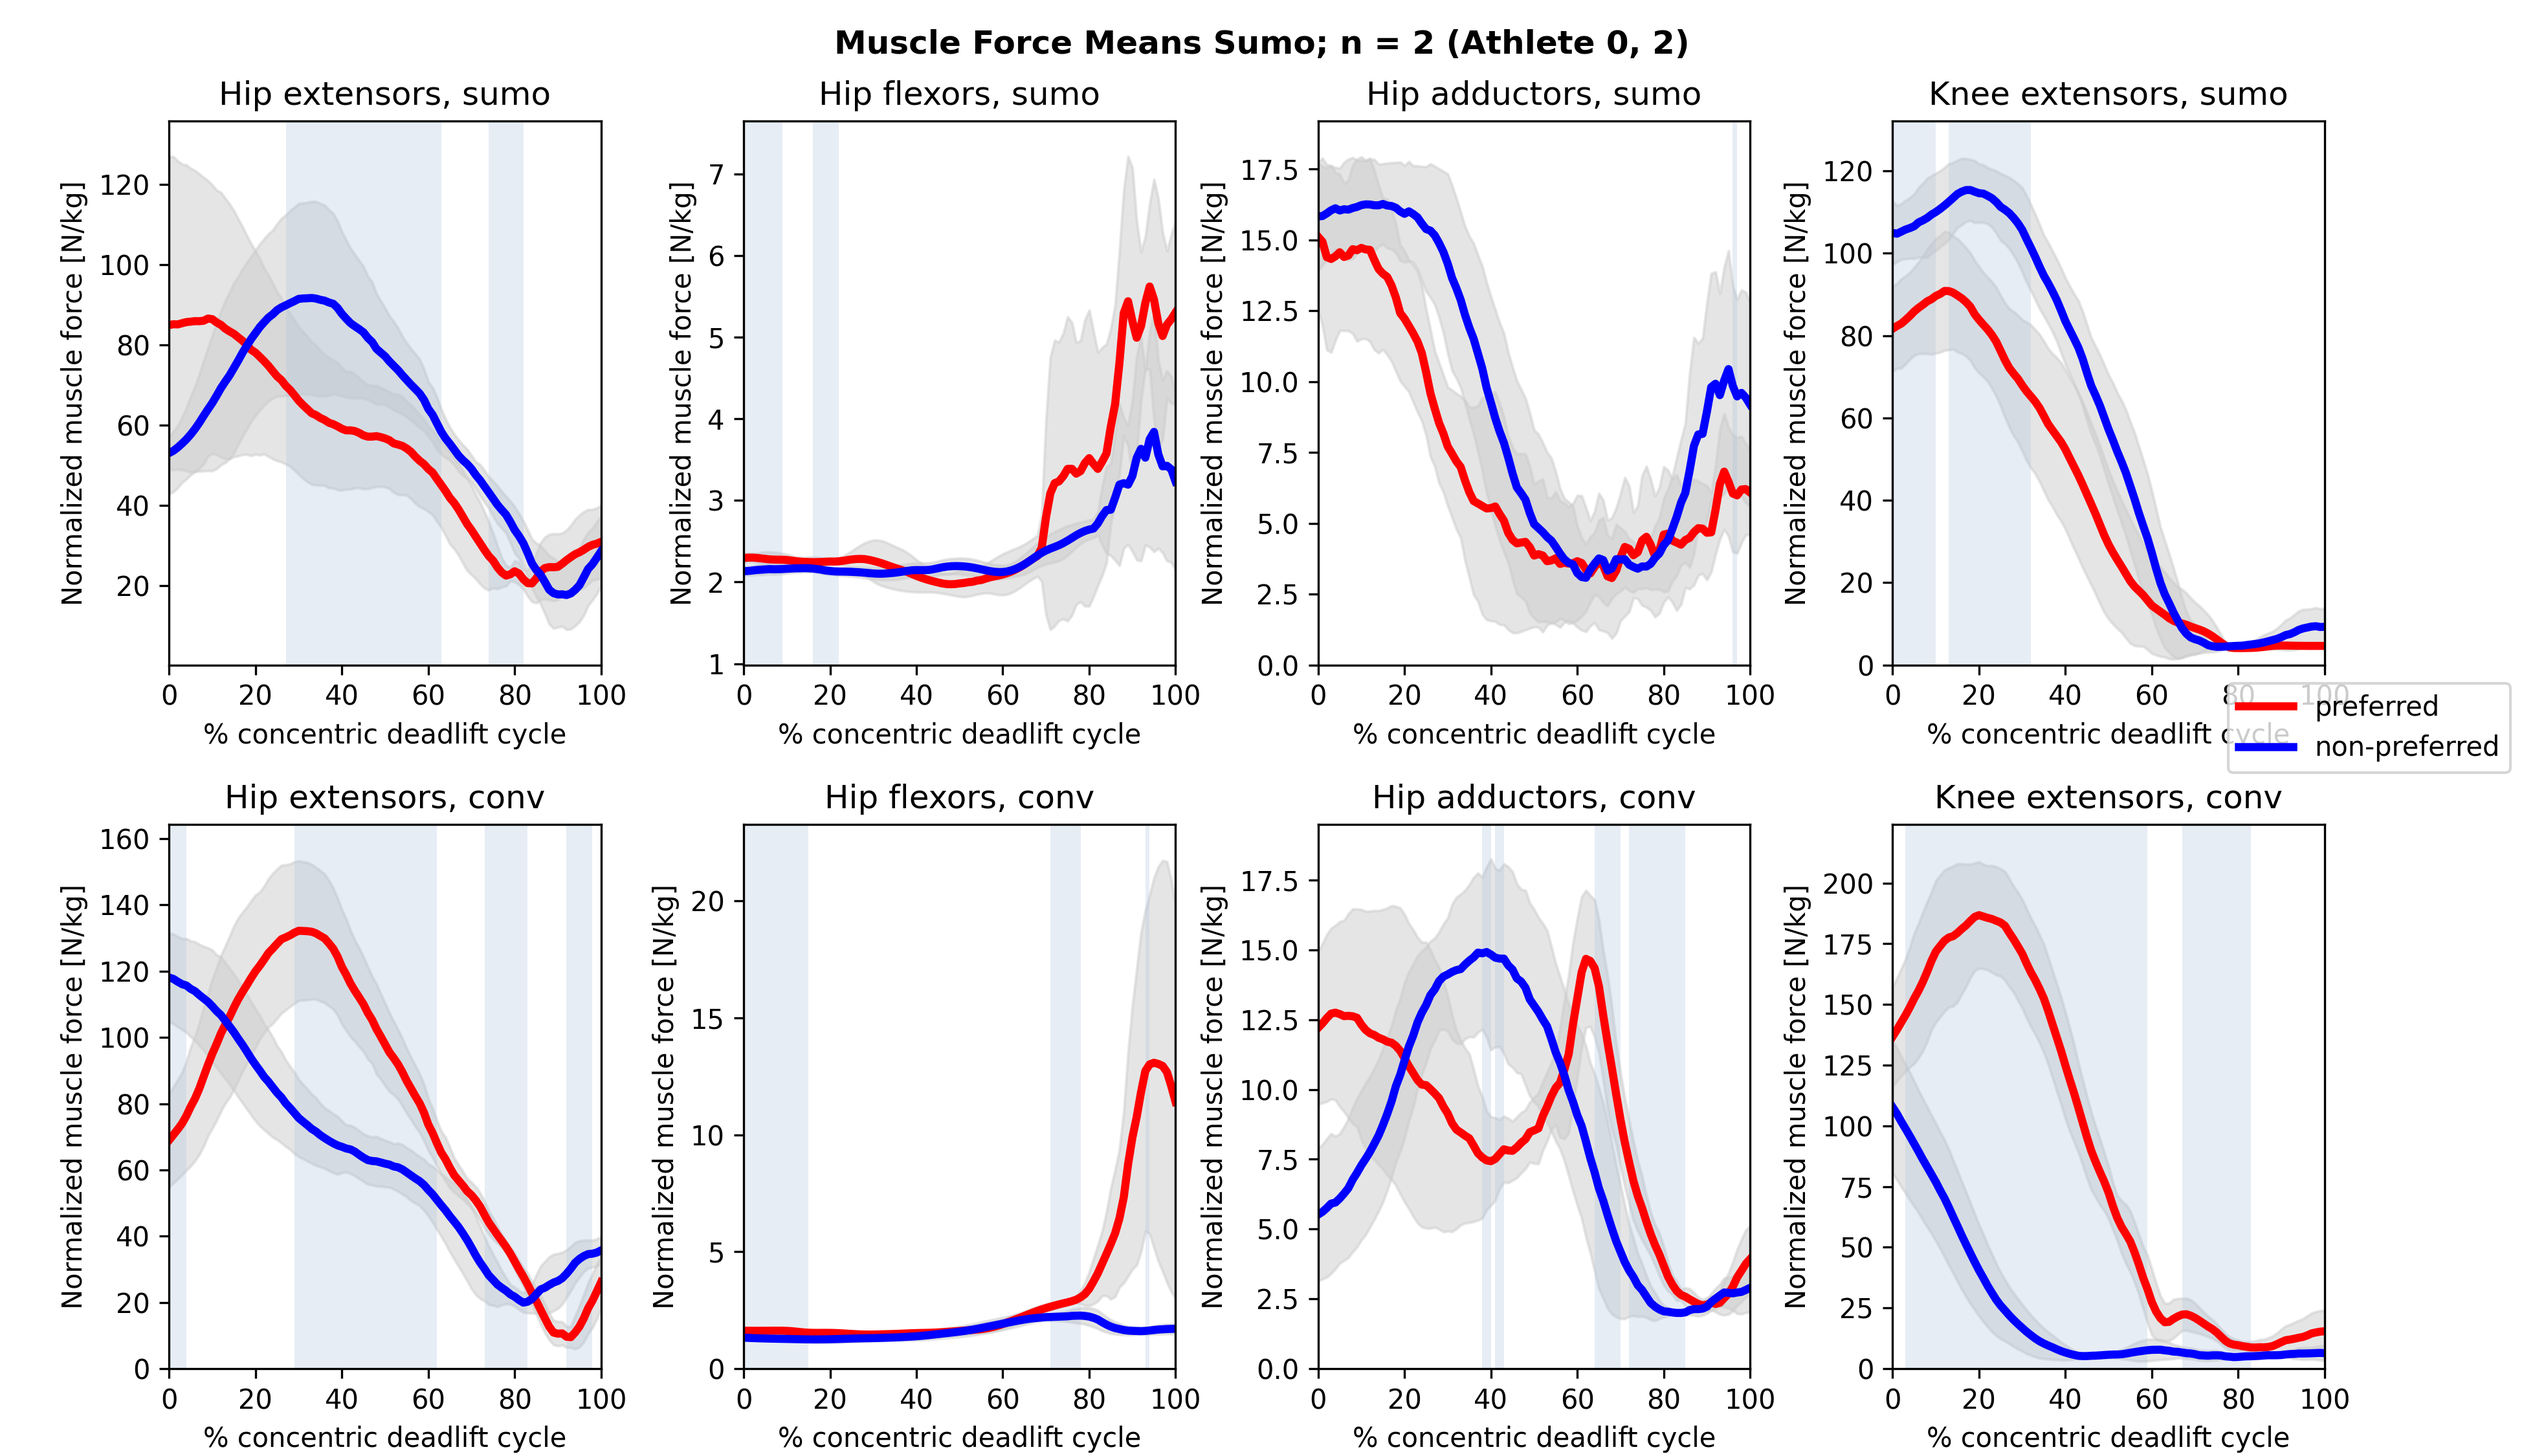
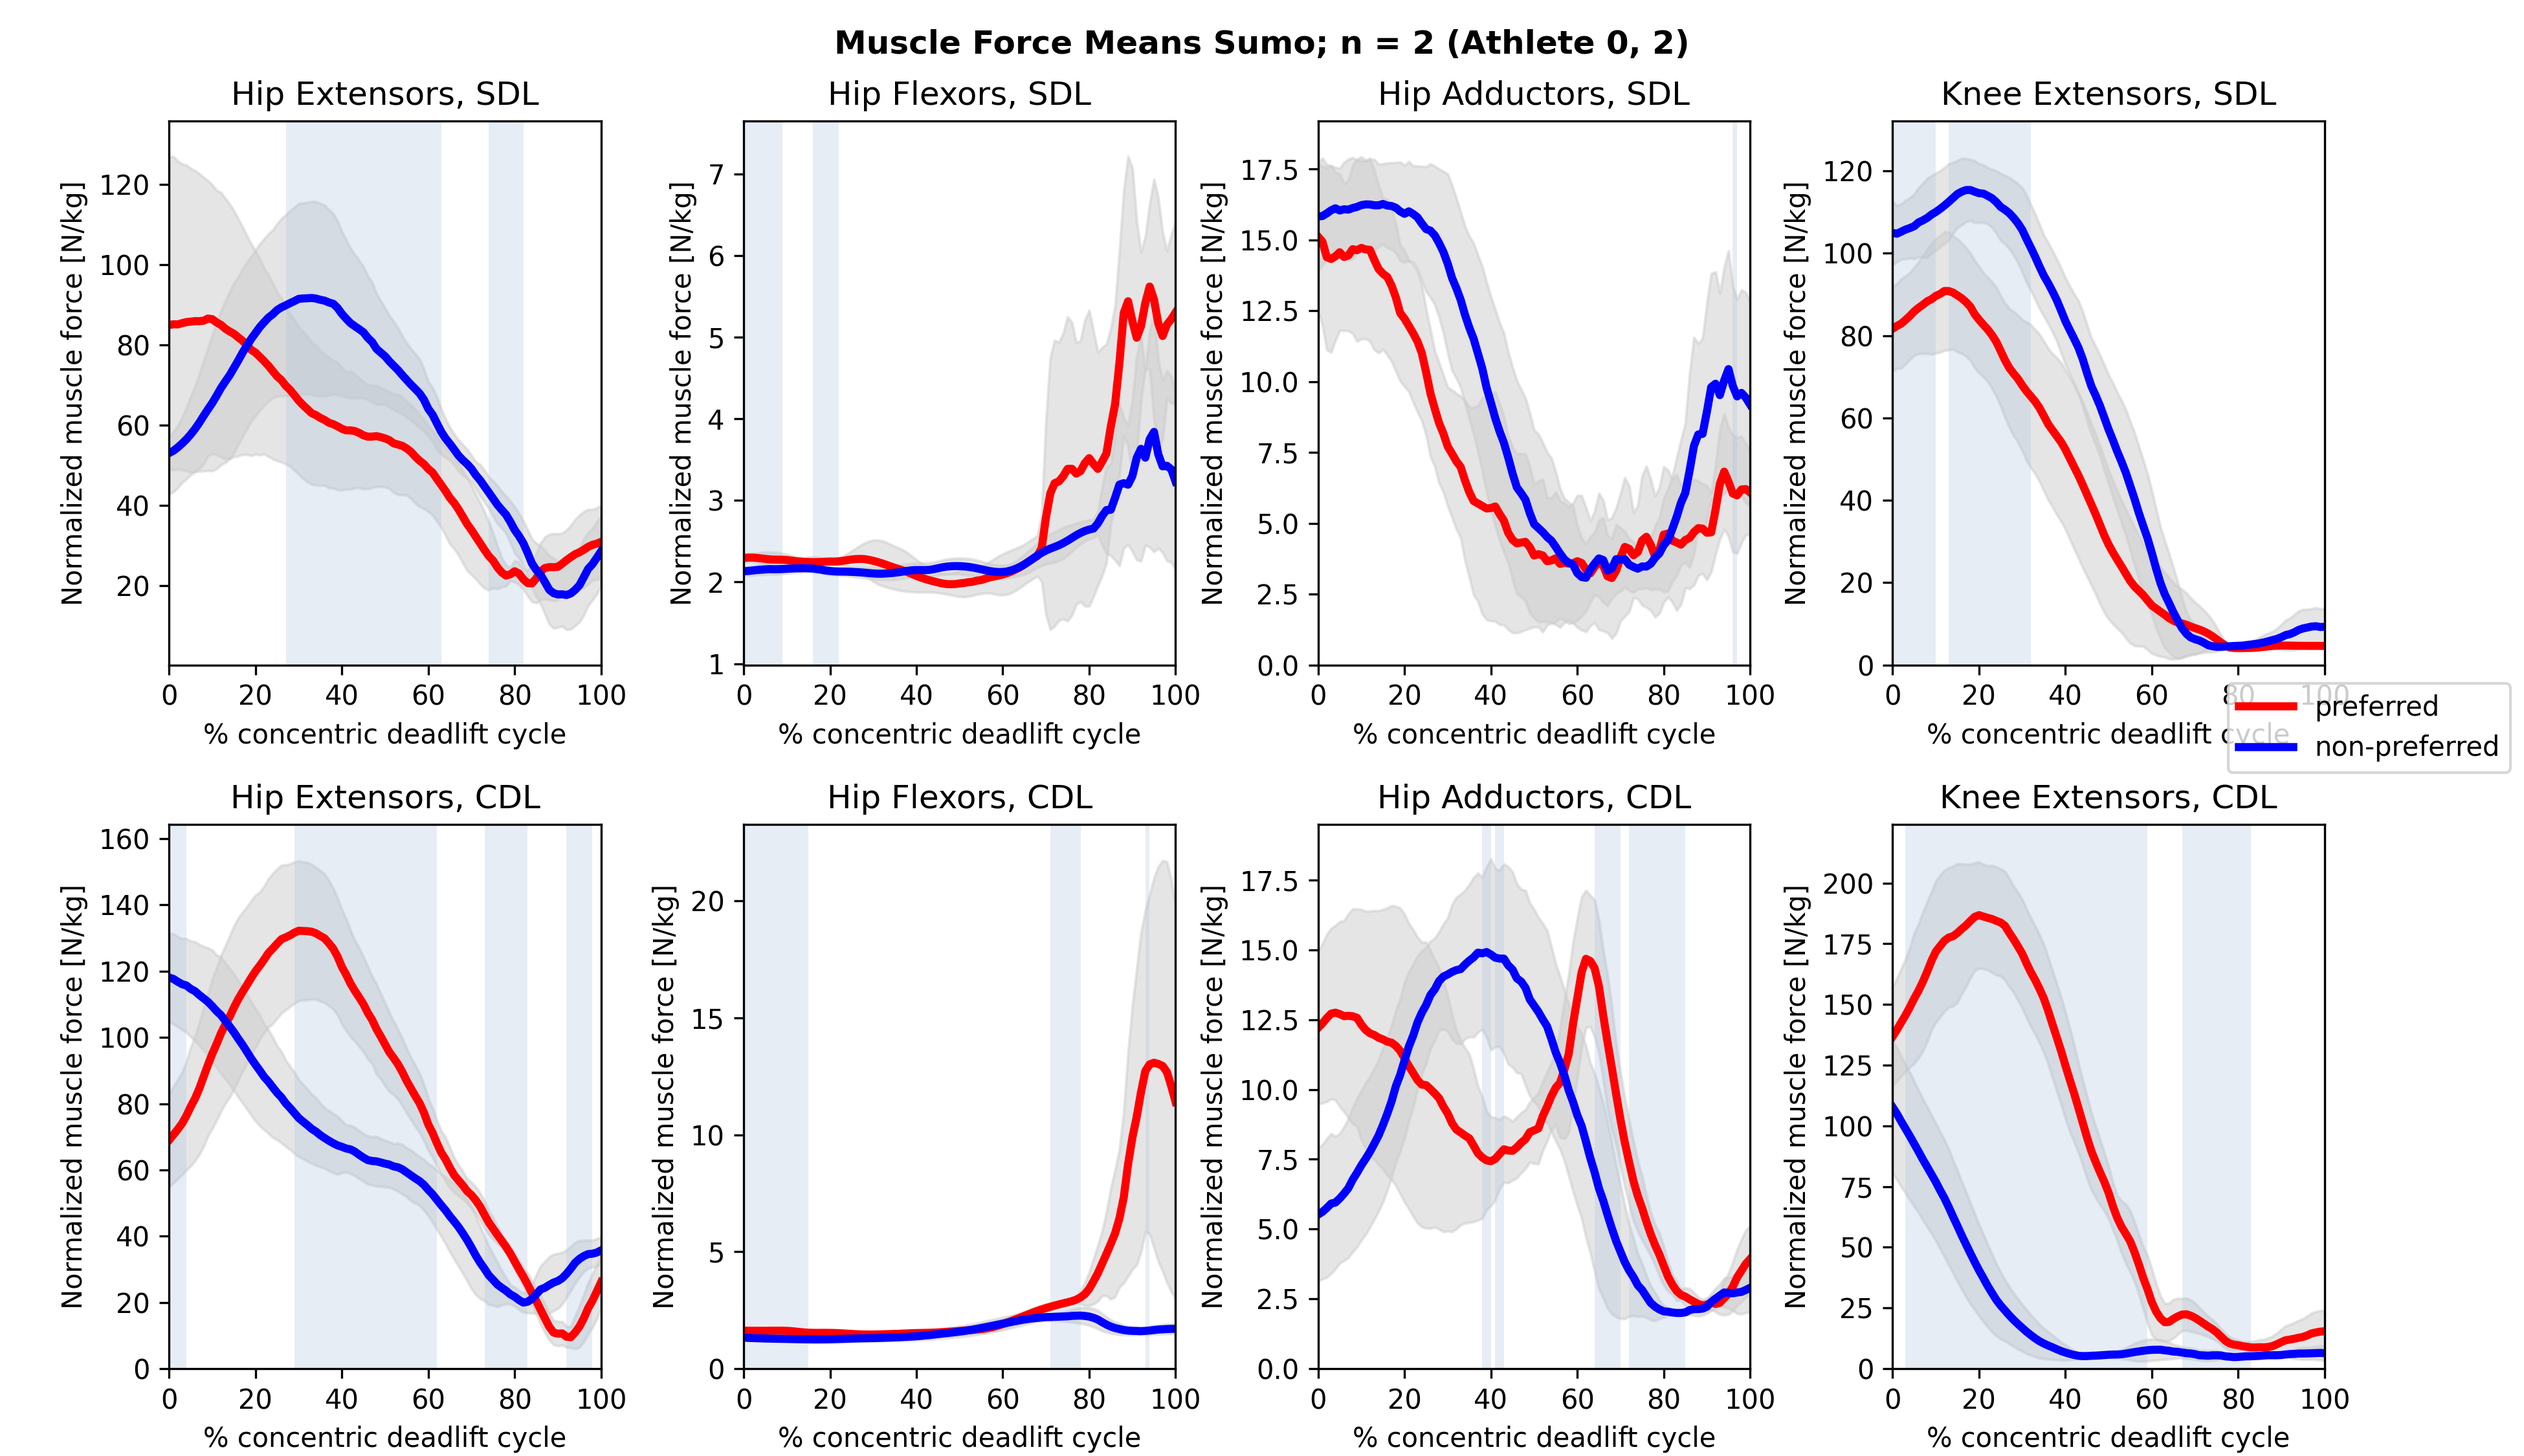
Adjust plot titles

diff --git a/python/src/summaryPreferences.py b/python/src/summaryPreferences.py
@@ -207,10 +207,10 @@ def run_muscle_group_preferences(bool, save_figures):
                 (conv_knee_extensors_r_athlete_2, conv_knee_extensors_l_athlete_2)
             )
             fig_0, axs_0 = plt.subplots(2, 4)
-            fig_0.suptitle(
-                "Muscle Force Means Sumo; " + "n = 2 (Athlete 0, 2)",
-                fontweight="bold",
-            )
+            # fig_0.suptitle(
+            #   "Muscle Force Means Sumo; " + "n = 2 (Athlete 0, 2)",
+            #  fontweight="bold",
+            # )
             plt.subplots_adjust(
                 wspace=0.33,
                 hspace=0.293,
@@ -223,12 +223,11 @@ def run_muscle_group_preferences(bool, save_figures):
             # Hip extensors sumo
             plt.sca(axs_0[0, 0])
             axs_0[0, 0].set_title(
-                "Hip extensors, sumo",
+                "Hip Extensors, SDL",
             )
             plot_means(sumo_hip_extensors_athlete_0, "r", "preferred")
             plot_means(sumo_hip_extensors_athlete_2, "b", "non-preferred")
             plt.ylabel(y_label)
-            plt.xlabel(x_label)
             t = spm1d.stats.ttest_paired(
                 sumo_hip_extensors_athlete_0, sumo_hip_extensors_athlete_2
             )
@@ -247,7 +246,7 @@ def run_muscle_group_preferences(bool, save_figures):
             # Hip extensors conv
             plt.sca(axs_0[1, 0])
             axs_0[1, 0].set_title(
-                "Hip extensors, conv",
+                "CDL",
             )
             plot_means(conv_hip_extensors_athlete_2, "r", "preferred")
             plot_means(conv_hip_extensors_athlete_0, "b", "non-preferred")
@@ -273,12 +272,10 @@ def run_muscle_group_preferences(bool, save_figures):
             # Hip flexors sumo
             plt.sca(axs_0[0, 1])
             axs_0[0, 1].set_title(
-                "Hip flexors, sumo",
+                "Hip Flexors, SDL",
             )
             plot_means(sumo_hip_flexors_athlete_0, "r", "preferred")
             plot_means(sumo_hip_flexors_athlete_2, "b", "non-preferred")
-            plt.ylabel(y_label)
-            plt.xlabel(x_label)
 
             t = spm1d.stats.ttest_paired(
                 sumo_hip_flexors_athlete_0, sumo_hip_flexors_athlete_2
@@ -298,11 +295,10 @@ def run_muscle_group_preferences(bool, save_figures):
             # Hip flexors conv
             plt.sca(axs_0[1, 1])
             axs_0[1, 1].set_title(
-                "Hip flexors, conv",
+                "CDL",
             )
             plot_means(conv_hip_flexors_athlete_2, "r", "preferred")
             plot_means(conv_hip_flexors_athlete_0, "b", "non-preferred")
-            plt.ylabel(y_label)
             plt.xlabel(x_label)
             axs_0[1, 1].set_ylim(ymin=0)
 
@@ -324,13 +320,11 @@ def run_muscle_group_preferences(bool, save_figures):
             # Hip adductors sumo
             plt.sca(axs_0[0, 2])
             axs_0[0, 2].set_title(
-                "Hip adductors, sumo",
+                "Hip Adductors, SDL",
             )
             plot_means(sumo_hip_adductors_athlete_0, "r", "preferred")
             plot_means(sumo_hip_adductors_athlete_2, "b", "non-preferred")
             axs_0[0, 2].set_ylim(ymin=0)
-            plt.ylabel(y_label)
-            plt.xlabel(x_label)
 
             t = spm1d.stats.ttest_paired(
                 sumo_hip_adductors_athlete_0, sumo_hip_adductors_athlete_2
@@ -350,12 +344,11 @@ def run_muscle_group_preferences(bool, save_figures):
             # Hip adductors conv
             plt.sca(axs_0[1, 2])
             axs_0[1, 2].set_title(
-                "Hip adductors, conv",
+                "CDL",
             )
             plot_means(conv_hip_adductors_athlete_2, "r", "preferred")
             plot_means(conv_hip_adductors_athlete_0, "b", "non-preferred")
             axs_0[1, 2].set_ylim(ymin=0)
-            plt.ylabel(y_label)
             plt.xlabel(x_label)
             t = spm1d.stats.ttest_paired(
                 conv_hip_adductors_athlete_2, conv_hip_adductors_athlete_0
@@ -375,7 +368,7 @@ def run_muscle_group_preferences(bool, save_figures):
             # row 0, column 3
             plt.sca(axs_0[0, 3])
             axs_0[0, 3].set_title(
-                "Knee extensors, sumo",
+                "Knee Extensors, SDL",
             )
             plot_means(sumo_knee_extensors_athlete_0, "r", "preferred")
             plot_means(sumo_knee_extensors_athlete_2, "b", "non-preferred")
@@ -401,12 +394,11 @@ def run_muscle_group_preferences(bool, save_figures):
             # knee extensors, conv
             plt.sca(axs_0[1, 3])
             axs_0[1, 3].set_title(
-                "Knee extensors, conv",
+                "CDL",
             )
             plot_means(conv_knee_extensors_athlete_2, "r", "preferred")
             plot_means(conv_knee_extensors_athlete_0, "b", "non-preferred")
             axs_0[1, 3].set_ylim(ymin=0)
-            plt.ylabel(y_label)
             plt.xlabel(x_label)
             t = spm1d.stats.ttest_paired(
                 conv_knee_extensors_athlete_2, conv_knee_extensors_athlete_0

diff --git a/python/main.py b/python/main.py
@@ -73,8 +73,8 @@ if __name__ == "__main__":
 
     # run_muscle_force_groups_overall(False, save_figures)
     run_muscle_force_groups_summary(False, save_figures)
-    run_muscle_group_preferences(False, save_figures)
-    run_peak_muscle_force_bars(True, save_figures)
+    run_muscle_group_preferences(True, save_figures)
+    run_peak_muscle_force_bars(False, save_figures)
     ########################## NORMALIZED MUSCLE FORCES ###################################
     # run_normalized_muscle_force(False)
 
